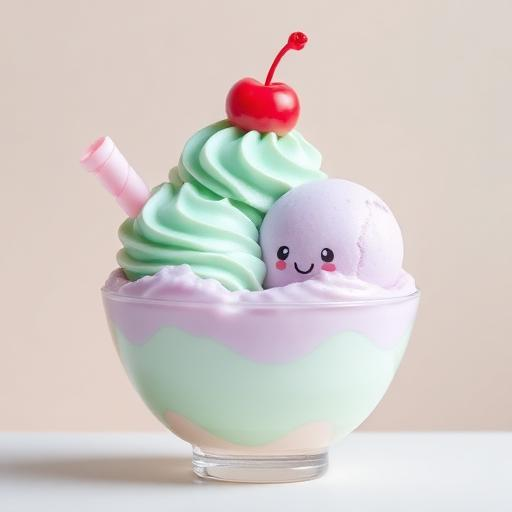
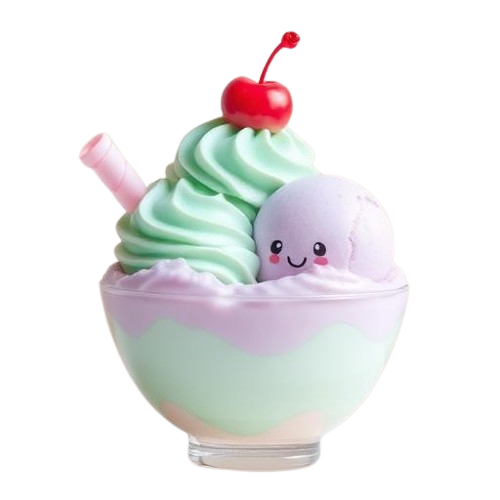
feat: update hero section

diff --git a/src/components/Welcome.tsx b/src/components/Welcome.tsx
@@ -30,9 +30,9 @@ const Welcome = () => {
       className="section-strawberry relative overflow-hidden"
     >
       <div className="container mx-auto px-6 relative z-10">
-        <div className="grid lg:grid-cols-2 gap-12 items-center min-h-screen">
+        <div className="grid lg:grid-cols-3 gap-12 items-center min-h-screen">
           {/* Left Content */}
-          <div className="space-y-8 animate-fade-in-up">
+          <div className="lg:col-span-2 space-y-8 animate-fade-in-up">
             <div className="space-y-4">
               <p
                 className="text-lg font-medium text-muted-foreground animate-fade-in-up"
@@ -44,23 +44,19 @@ const Welcome = () => {
                 className="text-6xl lg:text-7xl font-bold text-foreground leading-tight animate-fade-in-up"
                 style={{ animationDelay: "0.4s" }}
               >
-                Adinda
-                <span className="block bg-gradient-vanilla bg-clip-text text-transparent drip-effect">
-                  Salsabila's
-                </span>
+                Adinda{" "}Salsabila's
                 <span className="block text-primary">Portfolio</span>
               </h1>
               <p
-                className="text-xl text-muted-foreground max-w-lg animate-fade-in-up"
+                className="text-xl text-muted-foreground animate-fade-in-up"
                 style={{ animationDelay: "0.6s" }}
               >
-                Crafting delightful digital experiences with a sprinkle of
-                creativity and a whole lot of passion!
+                A whole lot of passion. Carpe diem. Live, Laugh, Love!🌻
               </p>
             </div>
 
             <div
-              className="flex flex-col sm:flex-row gah-4 animate-fade-in-up"
+              className="flex flex-col sm:flex-row gap-4 animate-fade-in-up"
               style={{ animationDelay: "0.8s" }}
             >
               <Button
@@ -95,18 +91,11 @@ const Welcome = () => {
                   Years Experience
                 </div>
               </div>
-              <div className="w-px h-12 bg-border"></div>
-              <div className="text-center">
-                <div className="text-2xl font-bold text-primary">100%</div>
-                <div className="text-sm text-muted-foreground">
-                  Sweet Satisfaction
-                </div>
-              </div>
             </div>
           </div>
 
           {/* Right Content - Hero Image */}
-          <div className="relative animate-slide-in-right">
+          <div className="lg:col-span-1 relative animate-slide-in-right">
             <div className="relative rounded-3xl overflow-hidden shadow-float">
               <img
                 src={heroImage}
